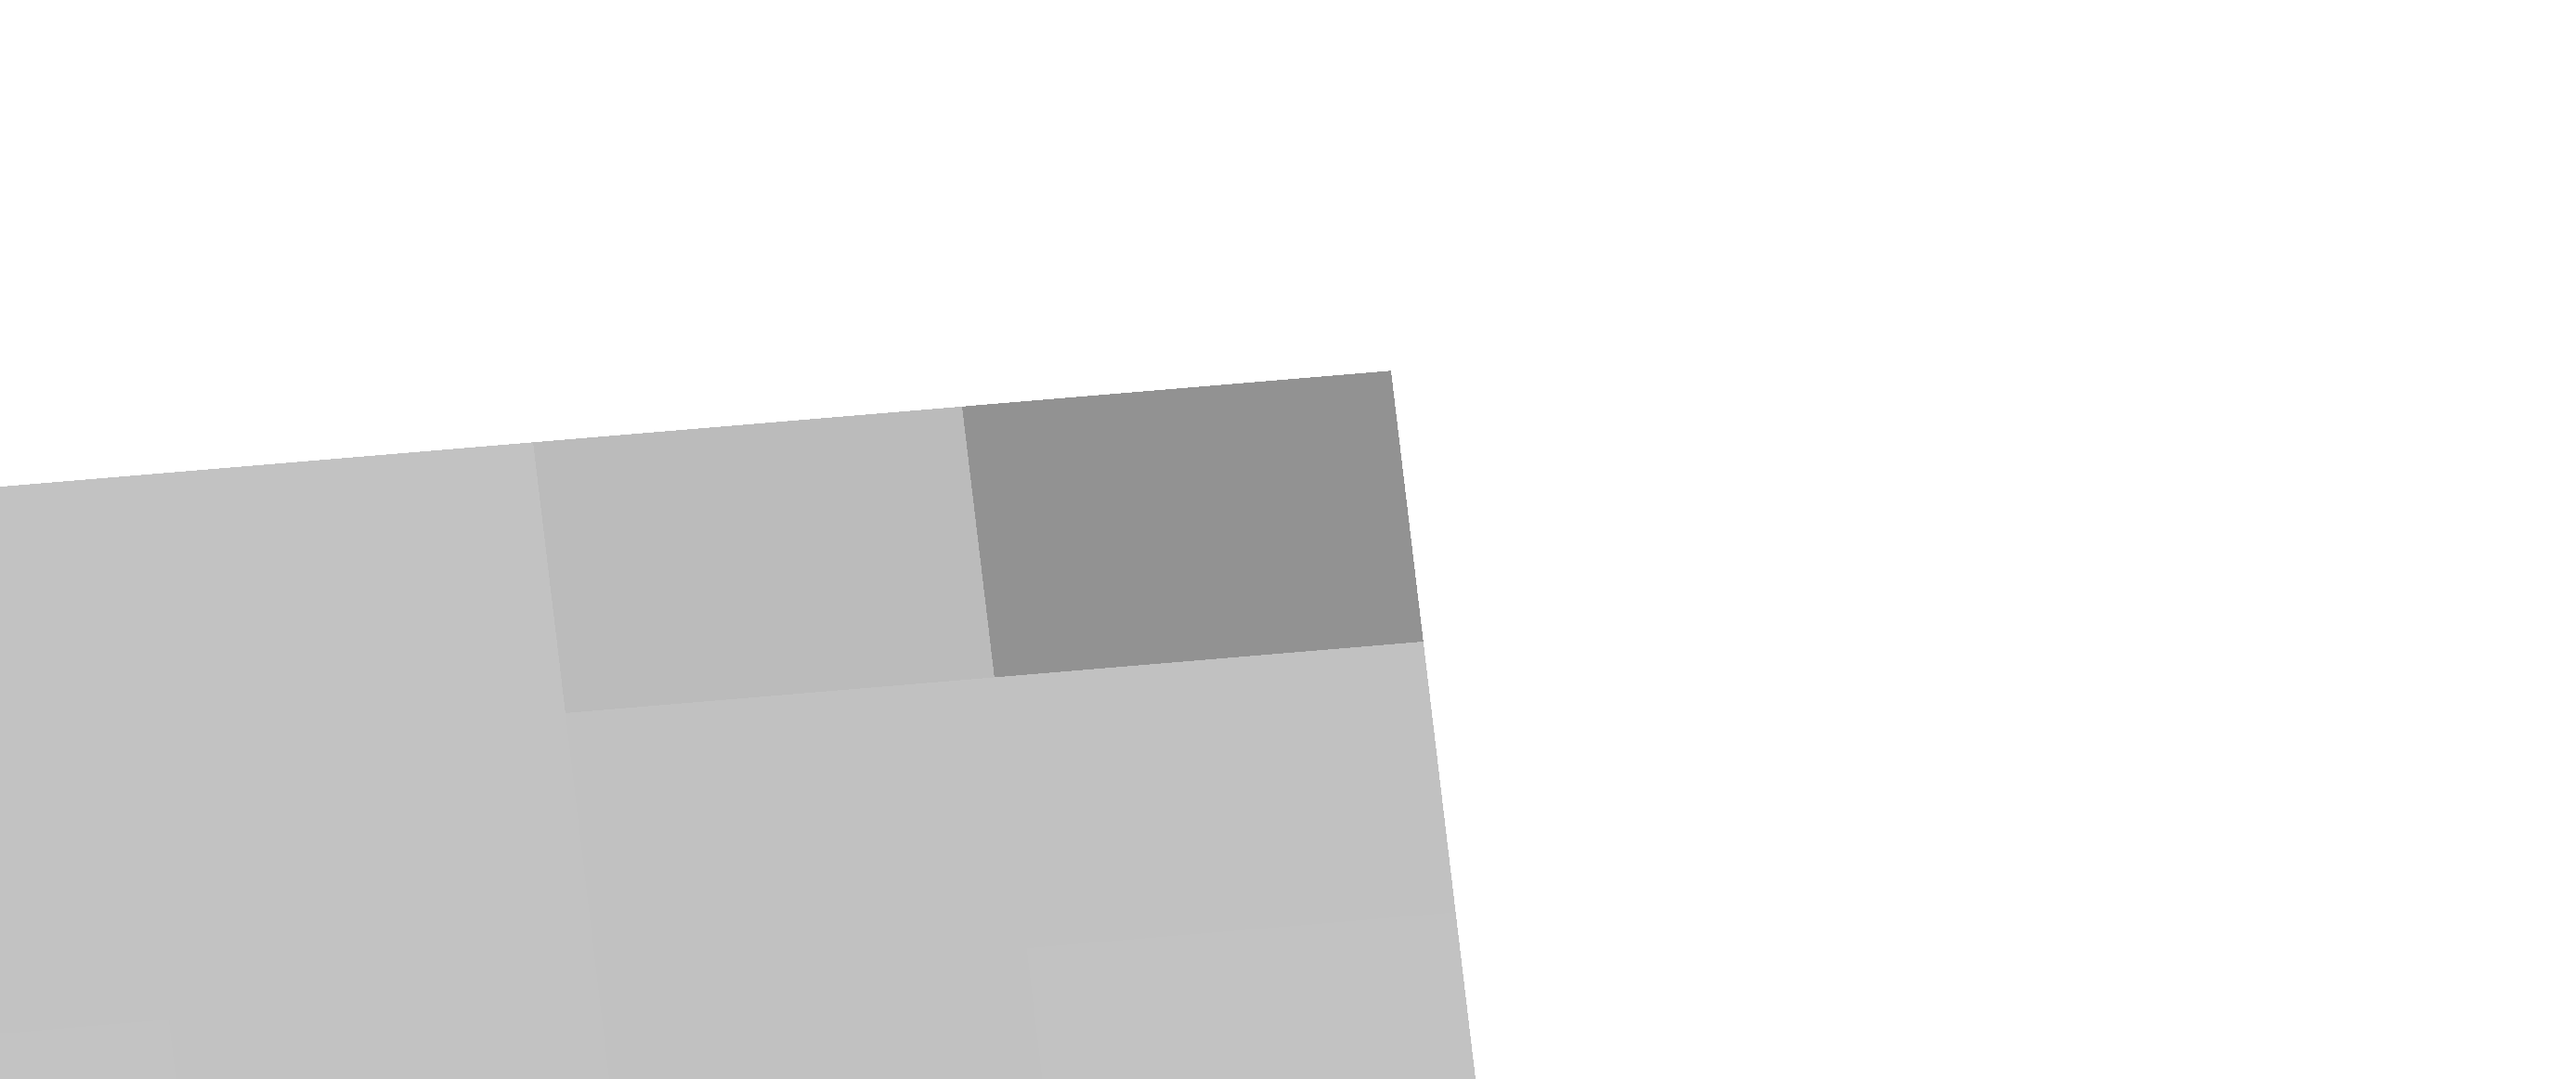
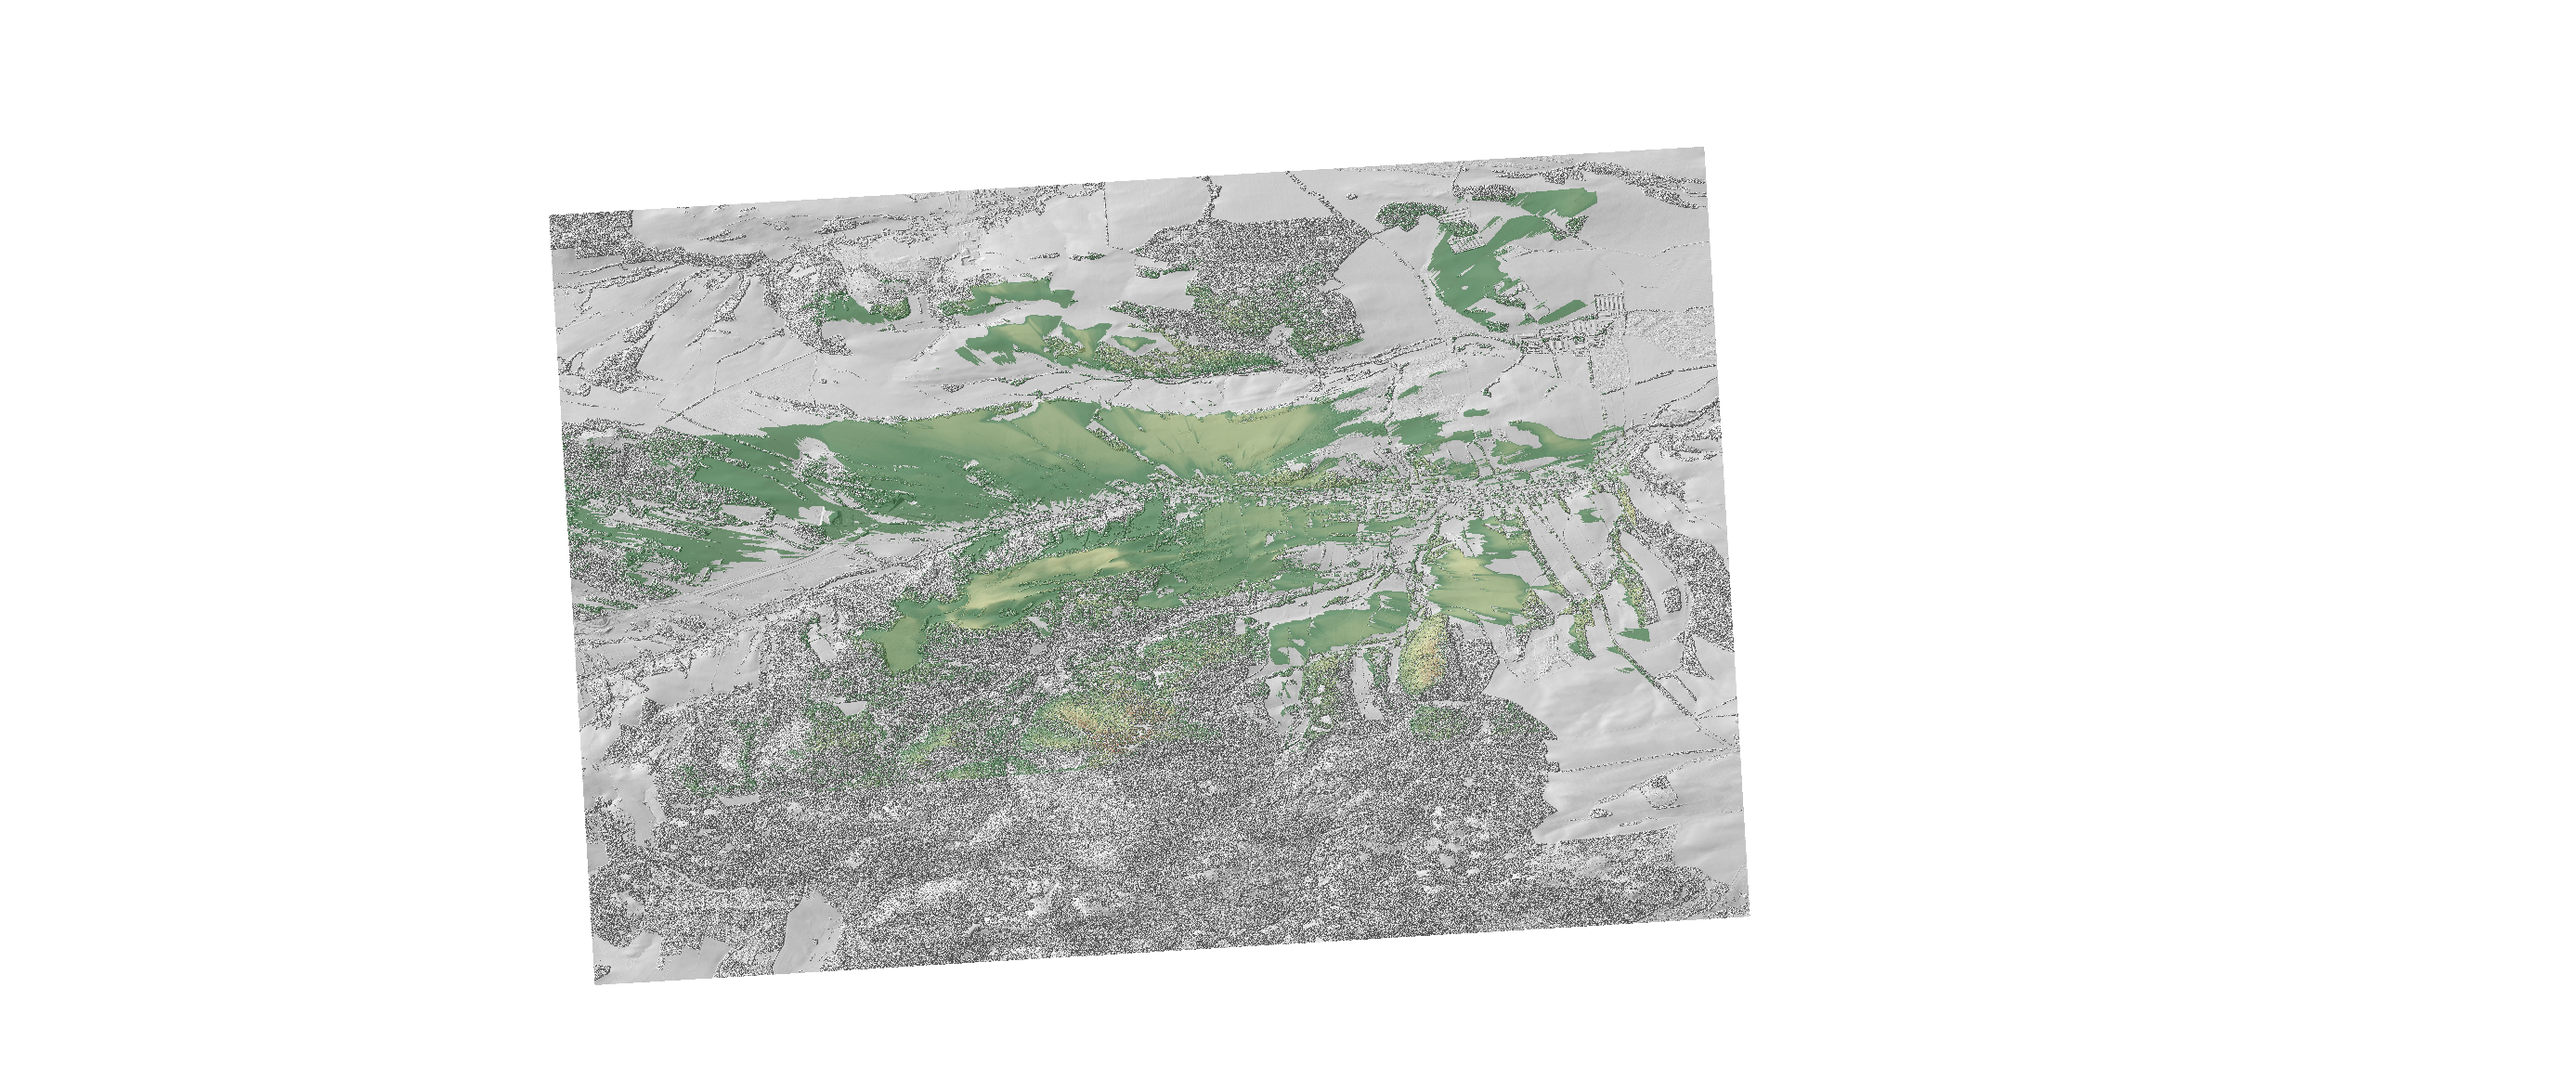
Modyfikacja map 1 i 2 na stronie

diff --git a/maps/viewshed-pv/mapa2.html b/maps/viewshed-pv/mapa2.html
@@ -7,8 +7,62 @@
     <link rel="stylesheet" href="https://unpkg.com/leaflet@1.9.4/dist/leaflet.css" />
     <script src="https://unpkg.com/leaflet@1.9.4/dist/leaflet.js"></script>
     <style>
-        body, html { margin: 0; padding: 0; height: 100%; }
-        #map { width: 100%; height: 100%; }
+        body, html { margin: 0; padding: 0; height: 100%; font-family: sans-serif; }
+        #map { width: 100%; height: 100%; background: #222222; } /* Ciemne tło, aby wyeksponować NMT */
+
+        /* Stylizacja okienka legendy */
+        .legend {
+            background: rgba(255, 255, 255, 0.92);
+            padding: 12px 16px;
+            line-height: 20px;
+            color: #222;
+            border-radius: 8px;
+            box-shadow: 0 2px 8px rgba(0,0,0,0.3);
+            font-size: 13px;
+        }
+        .legend h4 {
+            margin: 0 0 10px 0;
+            font-size: 14px;
+            font-weight: bold;
+            border-bottom: 1px solid #ccc;
+            padding-bottom: 4px;
+        }
+        .legend-item {
+            display: flex;
+            align-items: center;
+            margin-bottom: 8px;
+        }
+        .legend-key-line {
+            display: inline-block;
+            width: 22px;
+            height: 0px;
+            border-bottom: 2px dashed #000;
+            margin-right: 10px;
+        }
+        .legend-key-pv {
+            display: inline-block;
+            width: 22px;
+            height: 12px;
+            background: #2b6cb0;
+            border: 1px solid #1a365d;
+            margin-right: 10px;
+            border-radius: 2px;
+        }
+        /* Gradient widoczności: Zielony -> Żółty -> Czerwony */
+        .visibility-gradient {
+            height: 12px;
+            width: 100%;
+            background: linear-gradient(to right, #2ecc71, #f1c40f, #e74c3c);
+            border-radius: 3px;
+            margin: 4px 0;
+            border: 1px solid #ccc;
+        }
+        .visibility-labels {
+            display: flex;
+            justify-content: space-between;
+            font-size: 11px;
+            color: #555;
+        }
     </style>
 </head>
 <body>
@@ -17,22 +71,21 @@
 
     <script>
         // 1. Inicjalizacja mapy wycentrowana na Twojej inwestycji
-        var map = L.map('map').setView([50.84, 16.15], 13); // Wpisz przybliżone współrzędne Starych Bogaczowic
+        var map = L.map('map').setView([50.84, 16.15], 11); 
 
-        // 2. Podkład satelitarny z OSM
-        L.tileLayer('https://{s}.tile.openstreetmap.org/{z}/{x}/{y}.png', {
-            attribution: '&copy; OpenStreetMap contributors'
-        }).addTo(map);
-
-        // 3. Wczytanie RASTRA WIDOCZNOŚCI z NMT (wyeksportowanego z ArcGIS jako PNG)
-        // Wpisz dokładne narożniki [Południowy-Zachód], [Północny-Wschód] w WGS84
-        var imageBounds = [[50.812, 16.125], [50.874, 16.218]];  
+        // 2. Wczytanie RASTRA WIDOCZNOŚCI z NMT
+        // WAŻNE: Pierwsza wartość to Szerokość (Lat ~50.x), druga to Długość (Lon ~16.x)
+        // [[Południowy-Zachód: Szerokość, Długość], [Północny-Wschód: Szerokość, Długość]]
+        var imageBounds = [[50.812, 16.125], [50.874, 16.218]]; 
         
-        L.imageOverlay('Viewshed_map.png', imageBounds, {
-            opacity: 0.5
+        var rasterOverlay = L.imageOverlay('Viewshed_map.png', imageBounds, {
+            opacity: 1.0
         }).addTo(map);
 
-        // 4. Wczytanie WEKTORÓW (Granica działki)
+        // Wycentrowanie mapy dokładnie na Twoim rastrze (zapobiega przeskakiwaniu)
+        map.fitBounds(imageBounds);
+
+        // 3. Wczytanie WEKTORÓW (Granica działki / inwestycji)
         fetch('dzialka.geojson')
             .then(res => res.json())
             .then(data => {
@@ -40,13 +93,13 @@
                     style: {
                         color: '#000000',
                         weight: 2,
-                        dashArray: '5, 5', // przerywana linia jak na Twoim zrzucie
+                        dashArray: '5, 5',
                         fill: false
                     }
                 }).addTo(map);
             });
 
-        // 5. Wczytanie WEKTORÓW (Stoły Fotowoltaiczne)
+        // 4. Wczytanie WEKTORÓW (Stoły Fotowoltaiczne)
         fetch('stoly_pv.geojson')
             .then(res => res.json())
             .then(data => {
@@ -54,14 +107,43 @@
                     style: {
                         color: '#1a365d',
                         fillColor: '#2b6cb0',
-                        fillOpacity: 0.8,
+                        fillOpacity: 0.85,
                         weight: 1
                     },
                     onEachFeature: function (feature, layer) {
-                        layer.bindPopup('<b>Stół PV</b><br>Moc/Oznaczenie z ArcGIS');
+                        layer.bindPopup('<b>Stół fotowoltaiczny</b>');
                     }
                 }).addTo(map);
             });
+
+        // 5. Dodanie interaktywnej legendy w prawym dolnym rogu
+        var legend = L.control({ position: 'bottomright' });
+
+        legend.onAdd = function (map) {
+            var div = L.DomUtil.create('div', 'legend');
+            div.innerHTML = `
+                <h4>Legenda</h4>
+                <div class="legend-item">
+                    <span class="legend-key-line"></span>
+                    <span>Granica inwestycji</span>
+                </div>
+                <div class="legend-item">
+                    <span class="legend-key-pv"></span>
+                    <span>Stoły fotowoltaiczne</span>
+                </div>
+                <div style="margin-top: 10px;">
+                    <strong>Zasięg widoczności:</strong>
+                    <div class="visibility-gradient"></div>
+                    <div class="visibility-labels">
+                        <span>Częściowa</span>
+                        <span>Całkowita</span>
+                    </div>
+                </div>
+            `;
+            return div;
+        };
+
+        legend.addTo(map);
     </script>
 </body>
 </html>
